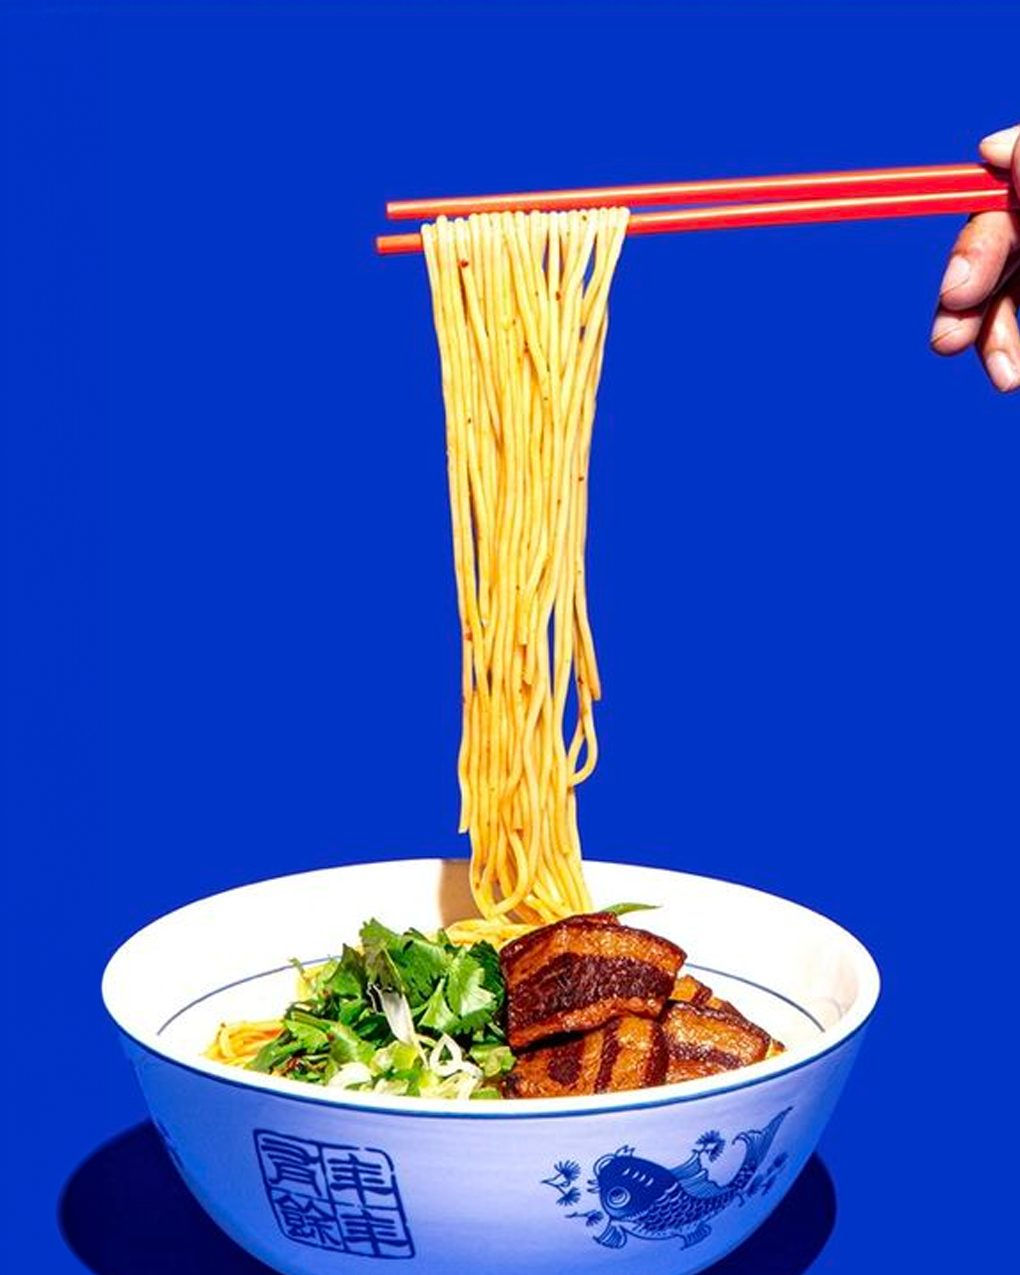
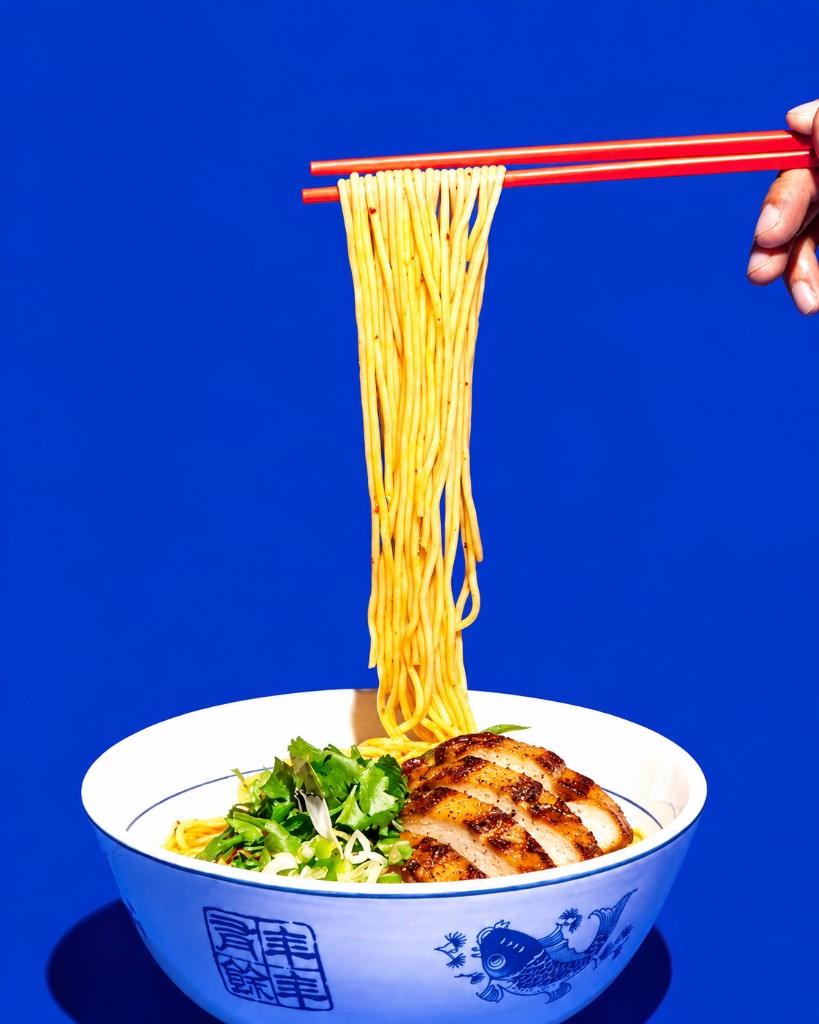
Refresh About kitchen ramen photo with sharper source (1.6.7)

diff --git a/tora-tora/style.css b/tora-tora/style.css
@@ -4,7 +4,7 @@ Theme URI: https://toratora.ae/
 Author: Reborn Consultancy
 Author URI: https://toratora.ae/
 Description: An immersive, editable WordPress theme for Tora Tora Dubai with a dynamic restaurant menu.
-Version: 1.6.6
+Version: 1.6.7
 Requires at least: 6.4
 Tested up to: 7.1
 Requires PHP: 8.0

diff --git a/tests/run.php b/tests/run.php
@@ -459,10 +459,11 @@ file_contains($theme . '/inc/default-content.php', 'tora_tora_upgrade_about_kitc
 file_contains($theme . '/assets/css/main.css', '.story-kitchen-copy h3', 'Kitchen heading has no display styling.');
 file_contains($theme . '/front-page.php', 'menu-intro', 'Menu is missing the line tying the dishes to the kitchen.');
 file_contains($theme . '/inc/customizer.php', 'tora_menu_intro', 'Menu intro line is not editable in the Customizer.');
-file_contains($theme . '/functions.php', "define('TORA_TORA_VERSION', '1.6.6');", 'Theme version must identify the 1.6.6 layout restoration.');
+file_contains($theme . '/functions.php', "define('TORA_TORA_VERSION', '1.6.7');", 'Theme version must identify the 1.6.7 kitchen image refresh.');
 file_contains($theme . '/inc/default-content.php', 'tora_tora_upgrade_menu_hold_1_6_2', 'Existing installs will not restore the temporary menu hold.');
 file_contains($theme . '/inc/default-content.php', 'tora_tora_upgrade_go_live_1_6_3', 'Existing installs will keep the staging banner without the 1.6.3 go-live upgrade.');
-file_contains($theme . '/style.css', 'Version: 1.6.6', 'style.css must identify the 1.6.6 layout restoration.');
+file_contains($theme . '/style.css', 'Version: 1.6.7', 'style.css must identify the 1.6.7 kitchen image refresh.');
+file_contains($theme . '/front-page.php', "tora_tora_responsive_image('tora_kitchen_image', 'story-kitchen-ramen', 819, 1024)", 'About kitchen image dimensions must match the high-res source.');
 file_contains($theme . '/inc/staging.php', "get_theme_mod('tora_staging_mode', false)", 'Staging helper default must be off for the live site.');
 
 file_contains($theme . '/inc/customizer.php', 'Placeholder. Confirm before launch.', 'Placeholder contact details are not flagged in the Customizer.');

diff --git a/tora-tora/front-page.php b/tora-tora/front-page.php
@@ -42,7 +42,7 @@ $careers_roles_label = sprintf(
     count($careers_jobs)
 );
 $menu_groups = tora_get_menu_groups();
-$kitchen_image = tora_tora_responsive_image('tora_kitchen_image', 'story-kitchen-ramen', 1020, 1275);
+$kitchen_image = tora_tora_responsive_image('tora_kitchen_image', 'story-kitchen-ramen', 819, 1024);
 $gallery_cells = tora_tora_gallery_items();
 $gallery_labels = [
     [

diff --git a/tora-tora/functions.php b/tora-tora/functions.php
@@ -9,7 +9,7 @@ if (!defined('ABSPATH')) {
     exit;
 }
 
-define('TORA_TORA_VERSION', '1.6.6');
+define('TORA_TORA_VERSION', '1.6.7');
 
 /**
  * Theme directory (resolved at call time so WP Pusher / switched themes stay correct).
